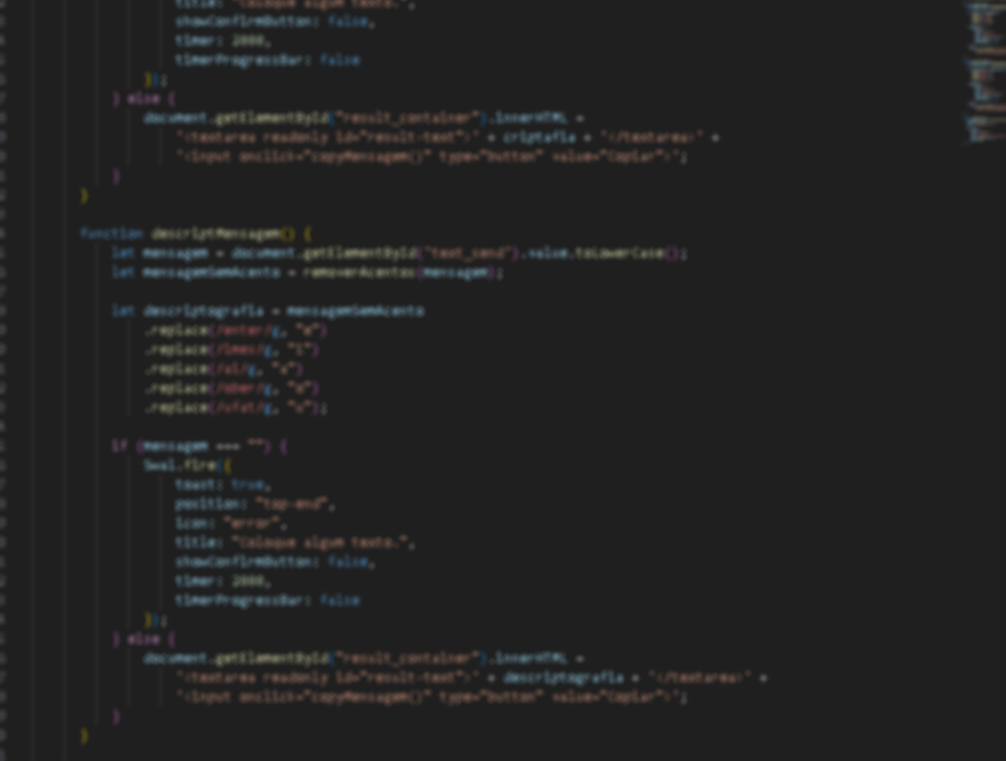
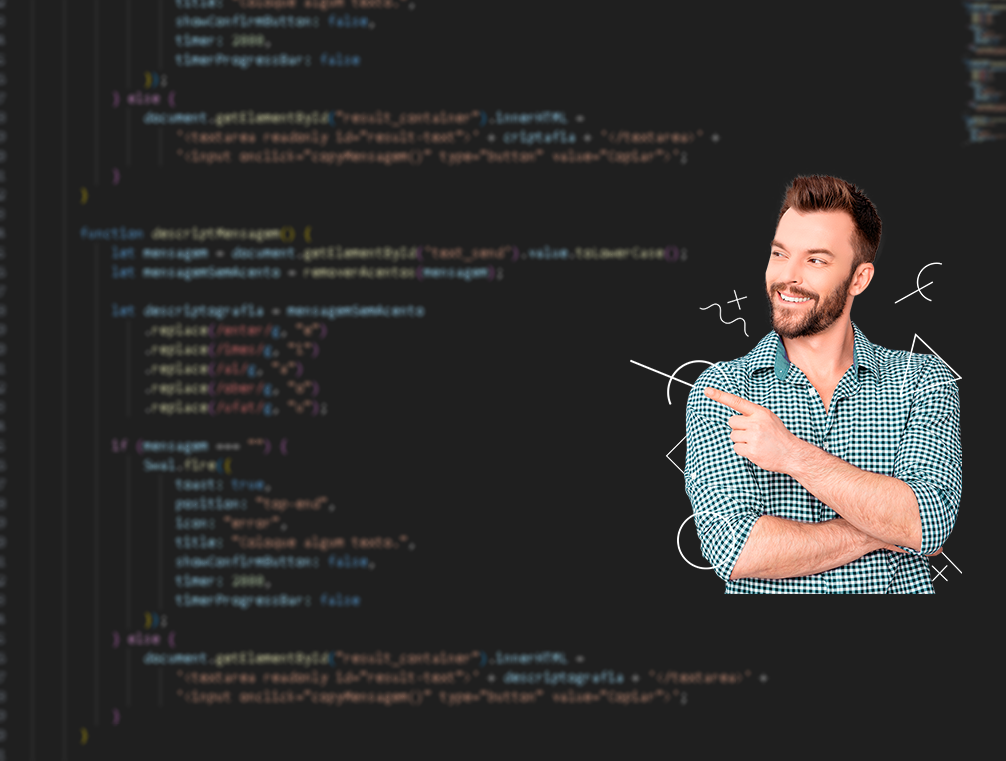
adicionado uma imagem no background

Changed region(s): [[0.6471, 0.2116, 0.9553, 0.7858], [0.8936, 0.3627, 0.9245, 0.3929]]

diff --git a/index.html b/index.html
@@ -1,6 +1,3 @@
-<!DOCTYPE html>
-<html lang="pt-br">
-
 <head>
     <meta charset="UTF-8">
     <meta name="viewport" content="width=device-width, initial-scale=1.0">
@@ -9,6 +6,30 @@
 </head>
 
 <body>
+    <section class="fist_page">
+        <div class="content">
+            <div class="princ_content">
+                <h1 class="title_fistpage">O codificador de mensagem avançado para <strong>Você</strong>!!</h1>
+                <p class="subtitle_fistpage">Um sofware de codificar e decodificar texto simples e interativo. prezando na facil acessibilidade.</p>
+            </div>
+            <a href="#" class="btn_direct">
+                <p>Clique para acessar o codificador</p>
+            </a>
+        </div>
+    </section>
+
+    <section class="fist_page">
+        <div class="content">
+            <div class="princ_content">
+                <h1 class="title_fistpage">O codificador de mensagem avançado para <strong>Você</strong>!!</h1>
+                <p class="subtitle_fistpage">Um sofware de codificar e decodificar texto simples e interativo. prezando na facil acessibilidade.</p>
+            </div>
+            <a href="#" class="btn_direct">
+                <p>Clique para acessar o codificador</p>
+            </a>
+        </div>
+    </section>
+
     <section class="fist_page">
         <div class="content">
             <div class="princ_content">

diff --git a/style.css b/style.css
@@ -7,11 +7,14 @@
     background: url('Screenshot_1.png') no-repeat center center/cover;
     width: 100%;
     height: 100vh;
+    display: flex;
+    flex-direction: row;
 }
 
 .content {
-    margin: 0 15rem 0 15rem;
+    margin-left: 8rem;
     height: 100%;
+    width: 60%;
     display: flex;
     flex-direction: column;
     align-items: start;
@@ -51,10 +54,16 @@
     font-weight: 400;
     font-family: 'Segoe UI', Tahoma, Geneva, Verdana, sans-serif;
     transition: 0.2s;
+    text-decoration: none;
 }
 
 .btn_direct:hover{
     box-shadow: 0px 0px 8px 5px rgba(0, 0, 0, 0.39);
     transform: scale(1.05);
     transition: 0.2s;
+}
+
+.img_content{
+    height: 500px;
+    width: 500px;
 }
